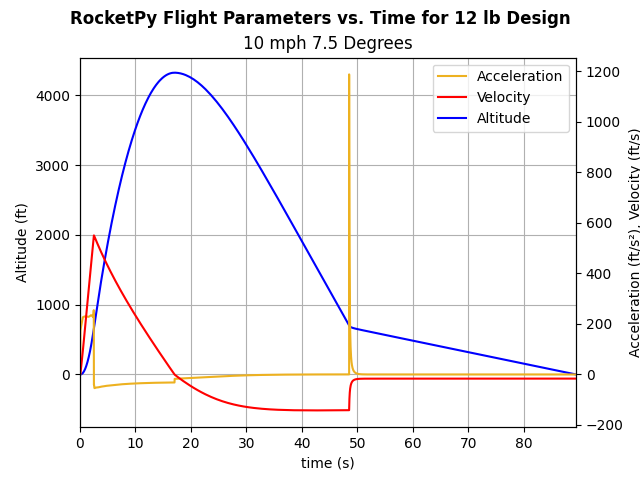
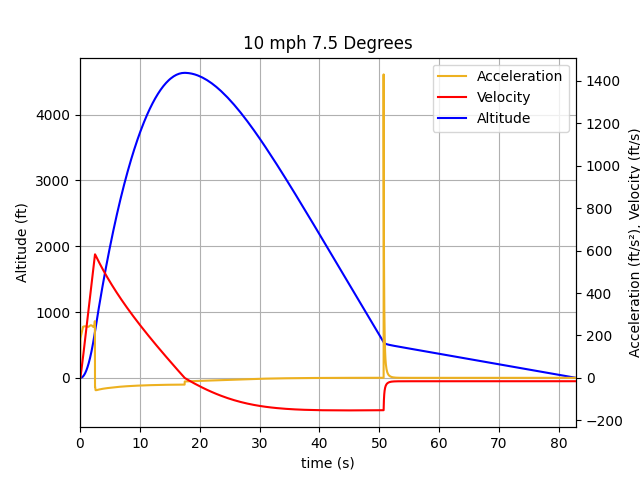
Fixed multisim added PDR yaml file

diff --git a/main.py b/main.py
@@ -1,39 +1,39 @@
 import rocketpy as rp
 from matplotlib import *
-import datetime
-import numpy as np
-import pandas
-import yaml
-import math
-import matplotlib.pyplot as plt
-import csv
-from zoneinfo import ZoneInfo
-import SLUIRP
-import SLUIRP.data
-import SLUIRP.data.OpenCSV
+#import datetime
+#import numpy as np
+#import pandas
+#import yaml
+#import math
+#import matplotlib.pyplot as plt
+#import csv
+#from zoneinfo import ZoneInfo
+#import SLUIRP
+#import SLUIRP.data
+#import SLUIRP.data.OpenCSV
 import SLUIRP.data.OpenYAML
-import SLUIRP.in_dev
-import SLUIRP.in_dev.GetCD
-import SLUIRP.sims
+#import SLUIRP.in_dev
+#import SLUIRP.in_dev.GetCD
+#import SLUIRP.sims
 import SLUIRP.sims.RocketPySim
-import SLUIRP.plotting
-import SLUIRP.in_dev.airbrakes_system.midair_sims
-import dill
-import time
+#import SLUIRP.plotting
+#import SLUIRP.in_dev.airbrakes_system.midair_sims
+#import dill
+#import time
 
 def main():
     angles = [5, 5, 7.5, 7.5, 10]
     speeds = [0, 5, 10, 15, 20]
 
-    #vehicle = SLUIRP.data.OpenYAML.readYaml("ConfigFiles/2026_Proposal_12lb.yaml")
+    vehicle = SLUIRP.data.OpenYAML.readYaml("ConfigFiles/feustel_pdr.yaml")
     #compare_sim_real(vdf_data, env, 3, "VDF Flight")
     #graph_thrust()
     #drag = np.array([[0, 0.8],[0.3, 0.9],[0.5,1]])
     #print(SLUIRP.in_dev.airbrakes_system.midair_sims.midair_sim("ConfigFiles/2026_Proposal_12lb.yaml", 50, 300, 50 , drag))
-    #SLUIRP.sims.RocketPySim.multi_sim(angles, speeds, "ConfigFiles/2026_Proposal_12lb.yaml", "for 12 lb Design")
+    SLUIRP.sims.RocketPySim.multi_sim(angles, speeds, "ConfigFiles/feustel_pdr.yaml")
     #SLUIRP.sims.RocketPySim.single_sim(5, 0, "ConfigFiles/2026_Proposal_12lb.yaml", "for 12 lb Design")
-    print(SLUIRP.in_dev.airbrakes_system.midair_sims.midair_sim("ConfigFiles/2026_Proposal_12lb.yaml",
-                                                          50, 1000, 20, [[0, 0.6],[0.25,0.5],[0.5,0.6]]))
+    #print(SLUIRP.in_dev.airbrakes_system.midair_sims.midair_sim("ConfigFiles/2026_Proposal_12lb.yaml",
+    #                                                      50, 1000, 20, [[0, 0.6],[0.25,0.5],[0.5,0.6]]))
     #graph_OR()
     #testFlight.plots.trajectory_3d()
     #testFlight.plots.aerodynamic_forces()

diff --git a/SLUIRP/sims/RocketPySim.py b/SLUIRP/sims/RocketPySim.py
@@ -94,7 +94,7 @@ def multi_sim(angles, speeds, vehicle, name = None):
     vel_at_main = "Velocity at Main Deployment (ft/s)" 
     run_params = ""
     end_results = [None]*(len(angles) + 1)
-    end_results[0] = [run_params, 
+    labels = [run_params, 
             final_vel,
             descent_time,
             ascent_time,
@@ -109,6 +109,7 @@ def multi_sim(angles, speeds, vehicle, name = None):
             vel_at_main]
     #simulates launch and records above data for each pair of wind speeds and angles 
     end_results = joblib.Parallel(n_jobs=-1)(joblib.delayed(single_sim)(angles[i], speeds[i], vehicle, name, i) for i in range(len(speeds)))
+    end_results.insert(0, labels)
     end_results = [list(row) for row in zip(*end_results)]
     """PROBABLY WANT TO MAKE THIS IT'S OWN FUNCTION AT SOME POINT"""
     # Specify the file name

diff --git a/SLUIRP/data/OpenYAML.py b/SLUIRP/data/OpenYAML.py
@@ -80,7 +80,7 @@ def readYaml (filename):
         n = fins_data["n"], #number of fins
         root_chord = fins_data["root_chord"] * IN_TO_M, #root chord length (in -> meters)
         tip_chord = fins_data["tip_chord"] * IN_TO_M, #tip chord length (in -> meters)
-        position = (rocket_data["length"] - fins_data["root_chord"]) * IN_TO_M, #position (in -> meters)
+        position = (rocket_data["length"] - fins_data["root_chord"] - fins_data["offset"]) * IN_TO_M, #position (in -> meters)
         span = fins_data["span"] * IN_TO_M, #span (in -> meters)
         sweep_length = fins_data["sweep"] * IN_TO_M #Sweep length (in -> meters),
         #   airfoil = (airfoilLift, "degrees") #OPTIONAL ADD AIRFOIL TO FINS ((WIP))
